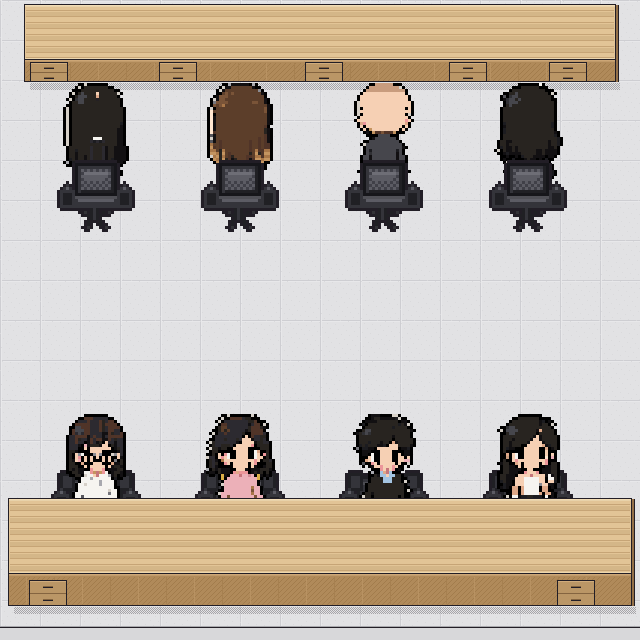
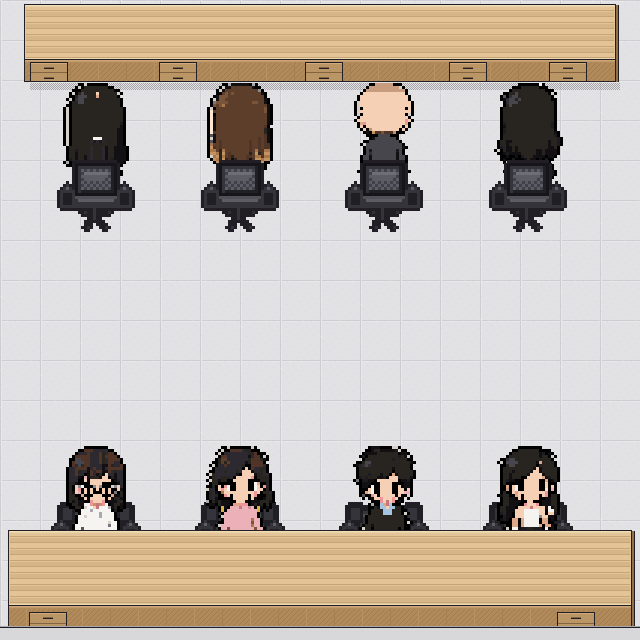
Give the hutong aisle room so the walker clears seated faces.
Drop the near desk and front chairs so a standing 3× walk stays
between the two rows instead of crossing the bottom-row heads.

Changed region(s): [[0.0, 0.625, 1.0, 1.0]]

diff --git a/scripts/generate_rooms.py b/scripts/generate_rooms.py
@@ -509,18 +509,18 @@ V1_WALL = 100
 V1_TOP_DESK_Y = 96
 V1_TOP_CHAIR_Y = 252
 V1_WALK_Y = 348
-V1_BOT_CHAIR_Y = 470
-V1_BOT_DESK_Y = 498
+V1_BOT_CHAIR_Y = 502
+V1_BOT_DESK_Y = 530
 
 V2_TOP_DESK_Y = 4
 V2_TOP_CHAIR_Y = 160
 V2_WALK_Y = 260
-V2_BOT_CHAIR_Y = 470
-V2_BOT_DESK_Y = 498
+V2_BOT_CHAIR_Y = 502
+V2_BOT_DESK_Y = 530
 
 # 3/4 desk depths (~2× previous tops) + taller front faces
 FAR_TOP_H, FAR_FRONT_H = 56, 22
-NEAR_TOP_H, NEAR_FRONT_H = 76, 32
+NEAR_TOP_H, NEAR_FRONT_H = 76, 28
 # sit content is 32 rows; head+shoulders+upper back ≈ 26 rows above the backrest
 SIT_ABOVE_BACK = 26 * HUTONG_SCALE
 # sit_front: face/chin/neck/shoulders/upper chest (~28 rows) above the desk
